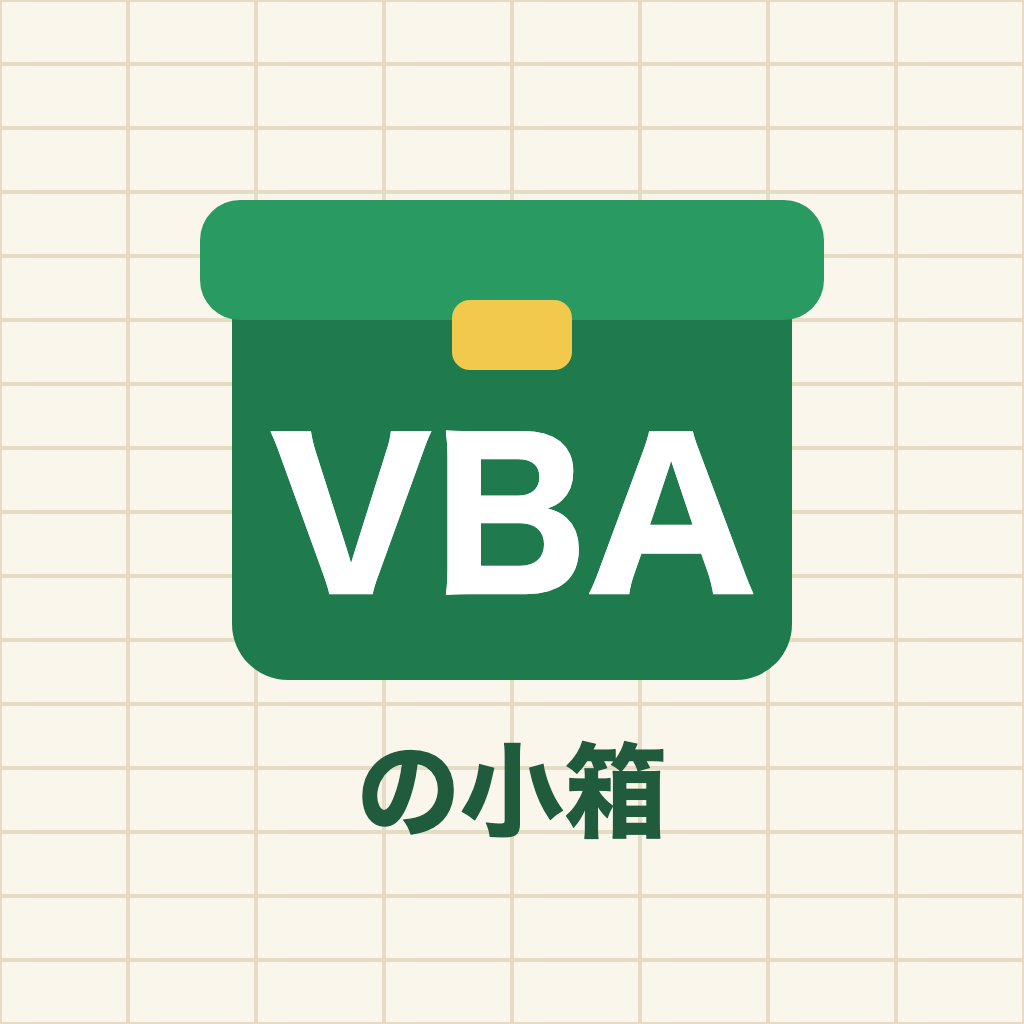
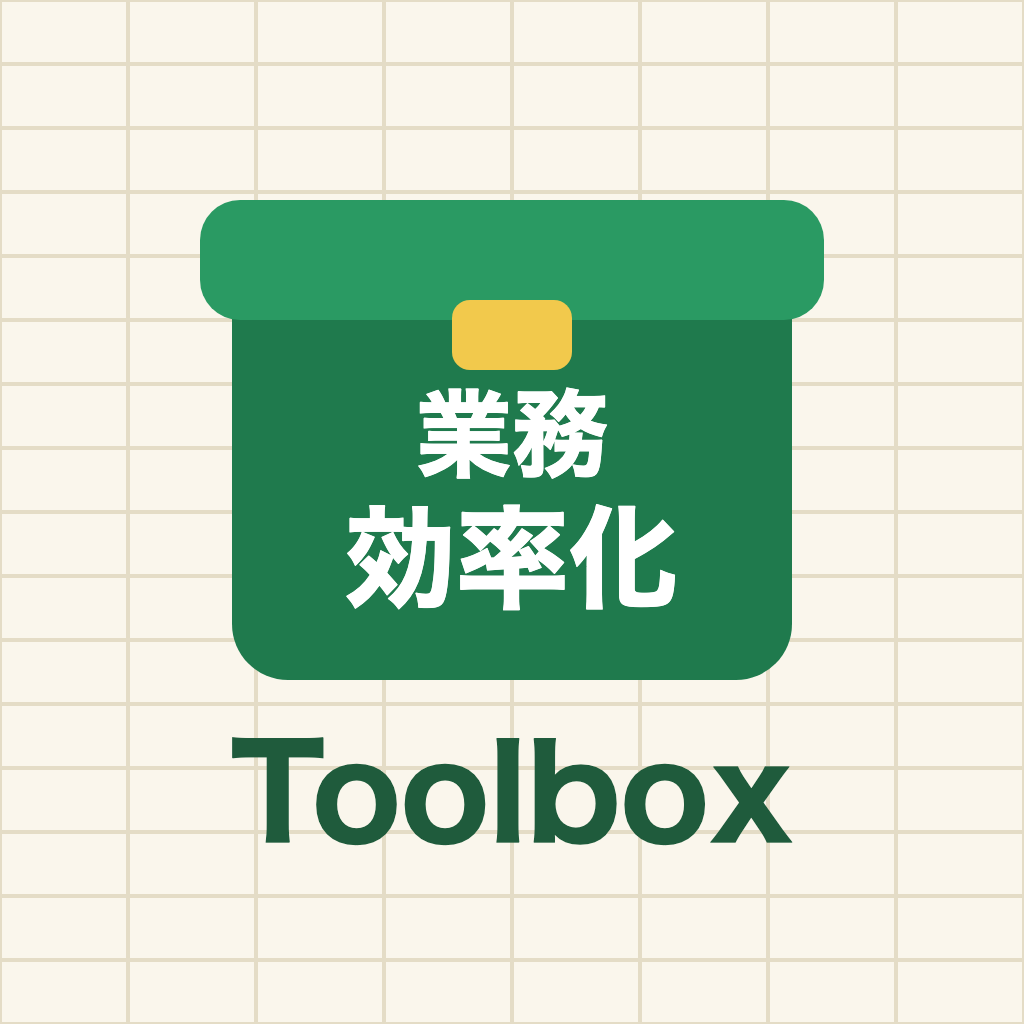
サイトの名前を業務効率化Toolbox に（旧 VBA の小箱）

Changed region(s): [[0.25, 0.375, 0.75, 0.5938], [0.2188, 0.7188, 0.7812, 0.8438]]

diff --git a/_posts/2026-11-04-filter-visible-copy.md b/_posts/2026-11-04-filter-visible-copy.md
@@ -1,0 +1,48 @@
+---
+layout: post
+title: "Excel 担当者ごとに行を取り出す方法：オートフィルターで絞って、見えている行だけコピー"
+description: "売上一覧から担当者ごとの行を別のシートに取り出す作業を、オートフィルターとコピーで少し楽にする方法です。うまくいかないときの見直しどころと、人数が多いときの考え方もまとめました。"
+tags: [Excel, オートフィルター, コピー, Excel初心者, 業務効率化]
+---
+
+月末に、売上の一覧から担当者ごとの行だけを取り出して、別のシートに貼る。そんな作業をしている方は多いと思います。1人ぶんならすぐ終わりますが、人数が増えると手間がふえ、コピーもれも心配になります。
+
+マクロ（Excel に作業の順番を覚えさせるしくみ）を使わなくても、Excel の機能だけで少し楽にできます。ここでは流れだけを短く紹介します。
+
+## 流れは「絞る、コピー、貼る」
+
+1. 一覧の中のセルを1つクリックして、［データ］タブの［フィルター］を押します。オートフィルター（条件に合う行だけを表示し、ほかの行をいったん隠す機能）が使えるようになります。
+2. 見出しに出た▼を押し、「担当者」の列で取り出したい人の名前だけにチェックを入れて［OK］を押します。データは消えず、隠れているだけです。
+3. 絞りこんだ表を、見出しから最後の行まで選んでコピーします（Windows は Ctrl + C、Mac は Command + C）。
+4. 貼りつけ先のシートのセルをクリックして貼ります（Windows は Ctrl + V、Mac は Command + V）。
+
+![担当者の列で絞りこんだところ]({{ '/assets/img/filter-copy/1.png' | relative_url }})
+
+絞りこんだあとにコピーすると、隠れている行は入らず、見えている行だけが貼られるのがふつうです。貼ったあとで、その人の行だけか確かめてください。
+
+![見えている行だけが貼りつけられる]({{ '/assets/img/filter-copy/2.png' | relative_url }})
+
+## 隠れた行までコピーされるとき
+
+行番号を右クリックして手作業で隠した場合などは、隠れた行がいっしょに入ることがあります。そのときは「可視セル（画面に見えているセル）」だけを選んでからコピーする方法があります。Windows では、コピーする範囲を選んだあと、次のどちらかを試せます。
+
+- Alt + ;（セミコロン）を押す
+- ［ホーム］タブ→［検索と選択］→［条件を選択してジャンプ］→［可視セル］を選んで［OK］を押す
+
+Mac の手順は、ここでは載せていません。
+
+![見えているセルだけを選ぶ]({{ '/assets/img/filter-copy/3.png' | relative_url }})
+
+## この方法のむずかしいところ
+
+人数ぶんだけ「絞る、コピー、貼る」をくり返すので、担当者が多いと時間がかかります。絞りこみを戻し忘れて別の人の行が混ざることもあり、元の一覧が変わったときは最初からやり直しになります。担当者が数人なら足りることが多いと思いますが、人数が多いときや毎月くり返すときは、マクロにまかせる方法もあります。
+
+## くわしい手順は note で
+
+画面つきのくわしい手順は、note の「業務効率化Toolbox」にまとめています。マクロをはじめて使う方向けの基礎シリーズも、同じ場所にあります。
+
+- [業務効率化Toolbox（note）](https://note.com/lt_works)
+
+「こんな作業をマクロにしたい」があれば、note の記事のコメントで気軽に教えてください。次の記事のテーマにします。
+
+この記事は AI の手助けで作り、Excel の画面で手順を確かめています。

diff --git a/index.md b/index.md
@@ -1,12 +1,12 @@
 ---
 layout: home
-title: VBA の小箱
+title: 業務効率化Toolbox
 list_title: 記事
 ---
-<img src="{{ '/assets/img/icon.png' | relative_url }}" alt="VBA の小箱" width="96" style="float:right;margin:0 0 8px 12px;border-radius:50%">
+<img src="{{ '/assets/img/icon.png' | relative_url }}" alt="業務効率化Toolbox" width="96" style="float:right;margin:0 0 8px 12px;border-radius:50%">
 
 Excel の小ワザ・マクロ（VBA）と、仕事で使える AI（ChatGPT・Claude・Copilot）の使い方をまとめています。読者は、毎日 Excel を使う事務・経理・小さなお店の方です。
 
-くわしい手順・そのまま使える見本ファイル・プロンプトは note で公開しています → [VBA の小箱（note）](https://note.com/lt_works)　／　[Threads](https://www.threads.net/@vba_kobako)・[Instagram](https://www.instagram.com/vba_kobako)
+くわしい手順・そのまま使える見本ファイル・プロンプトは note で公開しています → [業務効率化Toolbox（note）](https://note.com/lt_works)　／　[Threads](https://www.threads.net/@vba_kobako)・[Instagram](https://www.instagram.com/vba_kobako)
 
 「こんな作業をマクロにしたい」があれば、note の記事のコメントで教えてください。次の記事のテーマにします。

diff --git a/about.md b/about.md
@@ -3,7 +3,7 @@ layout: page
 title: このサイトについて
 permalink: /about/
 ---
-「VBA の小箱」は、Excel の小ワザ・VBA（マクロ）と、仕事で使える AI（ChatGPT・Claude・Copilot）の使い方を、はじめての方にもわかるように書いているサイトです。
+「業務効率化Toolbox」（業務効率化ツールボックス。2026年11月に「VBA の小箱」から名前を変えました）は、Excel の小ワザ・VBA（マクロ）と、仕事で使える AI（ChatGPT・Claude・Copilot）の使い方を、はじめての方にもわかるように書いているサイトです。
 
 - このサイト：短い小ワザと基礎（無料）
 - note（[https://note.com/lt_works](https://note.com/lt_works)）：くわしい手順の基礎シリーズ（無料）と、コピペで使えるコード・見本ファイルつきの活用例（有料）
